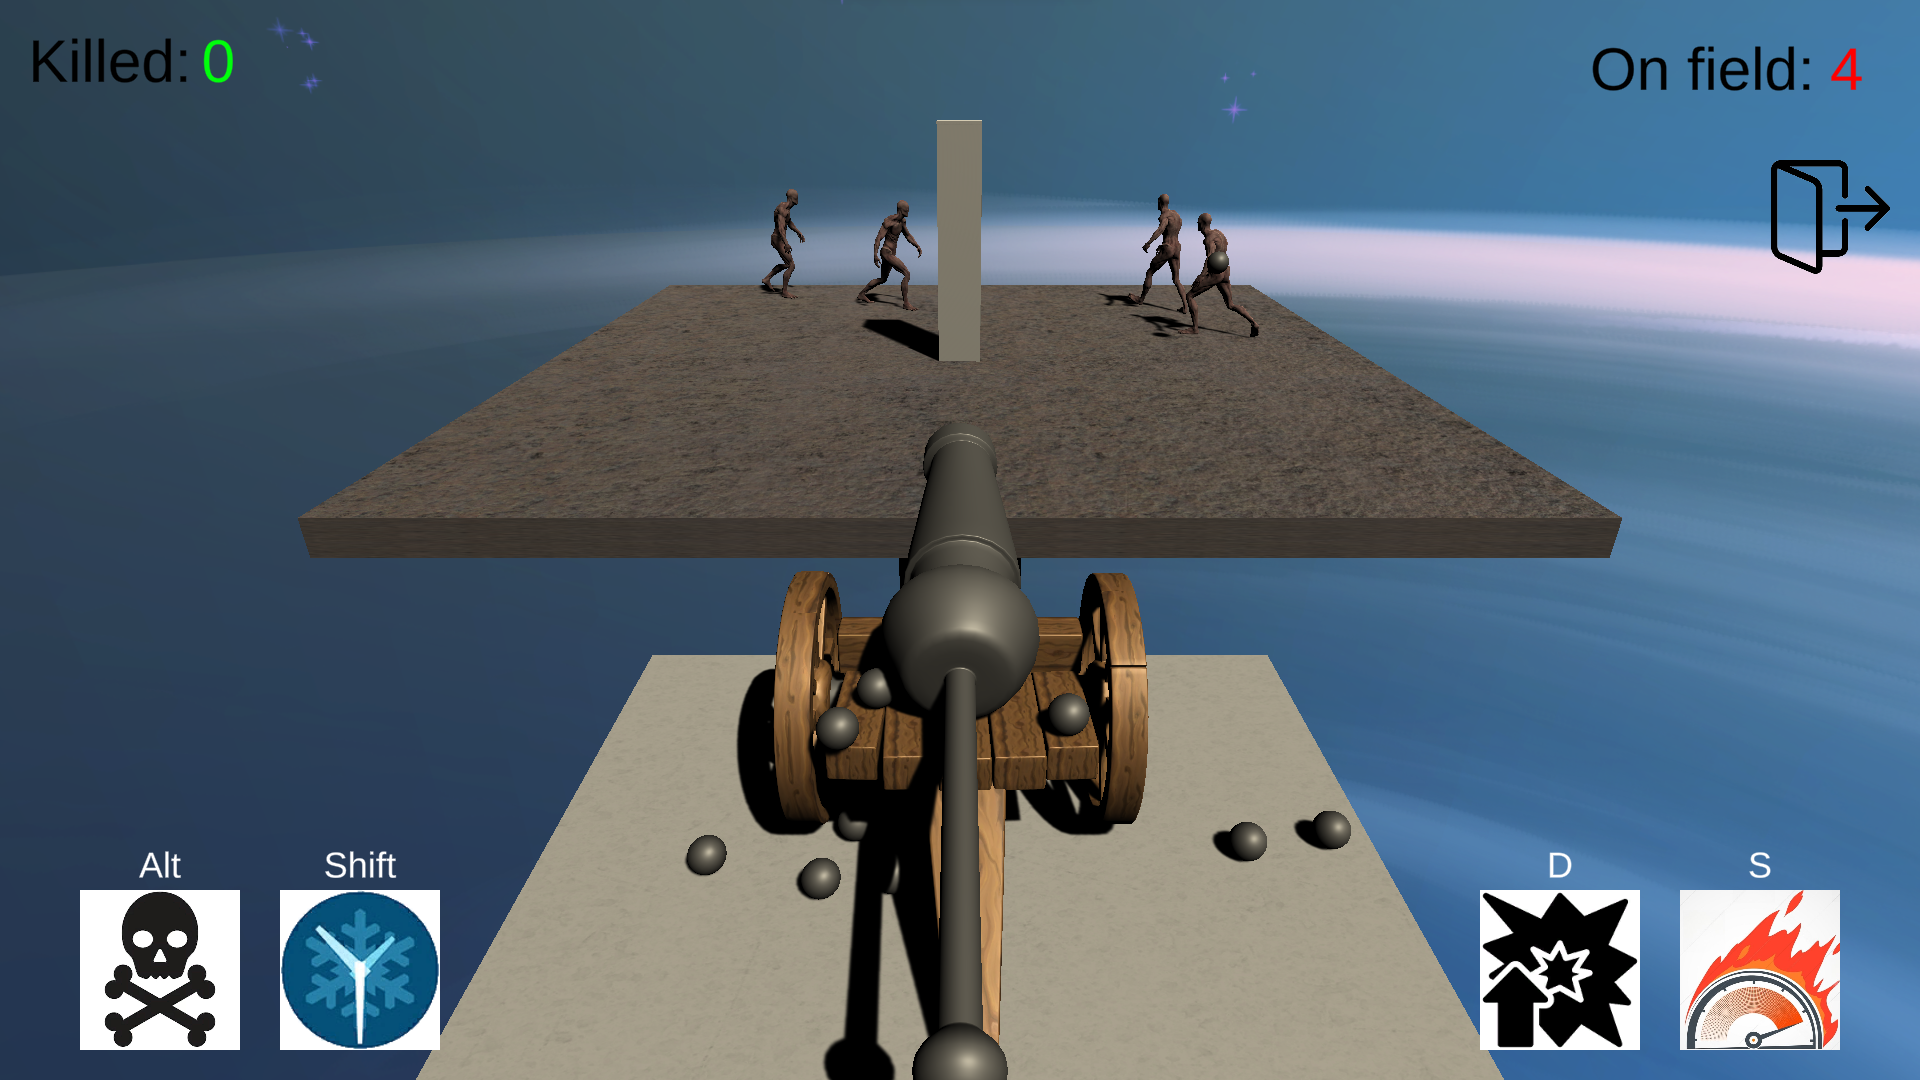
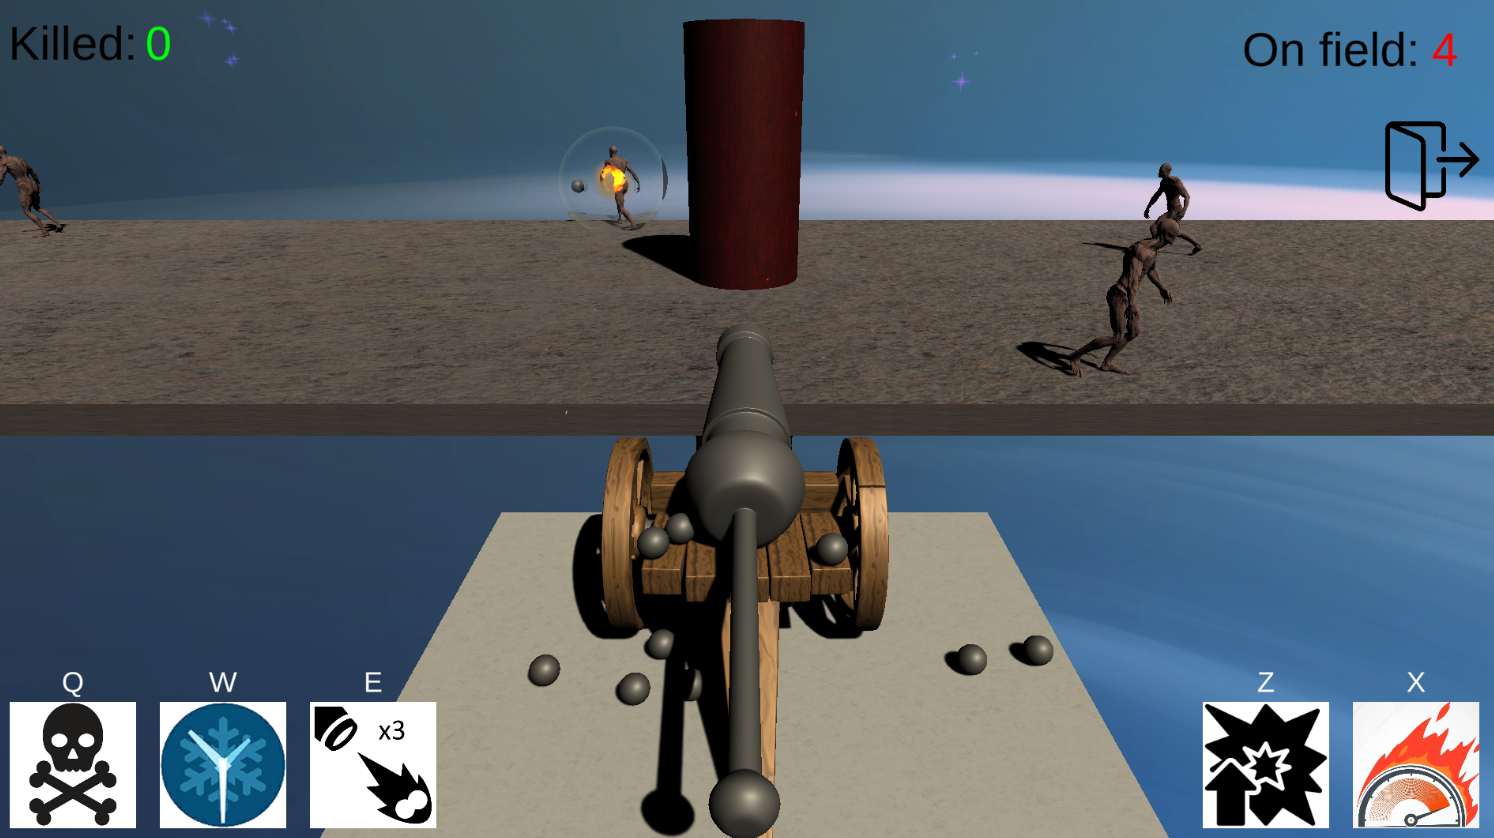
Update README.md

diff --git a/README.md b/README.md
@@ -2,16 +2,19 @@
 
 This is a single-player game where the main goal is to kill as many monsters as possible.
 
-The player has a cannon that deals damage to the monsters. Initially, the enemies have 100 HP, and one shot from the cannon deals 40 damage.
+The player has a cannon that deals damage to the monsters.
+Initially, the enemies have 100 HP, and one shot from the cannon deals 40 damage.
+The player has the ability to move along the X-axis.
 
 However, as the game progresses, the difficulty increases:
 - The enemies gain more HP.
 - Their movement speed increases.
 - The spawn time for new monsters decreases.
 
-The player has access to 2 skills and 2 upgrades:
+The player has access to 3 skills and 2 upgrades:
 - Skill #1: Kills all monsters on the field.
-- Skill #2: Freezes monster spawn for 10 seconds.
+- Skill #2: Freezes monster spawn for 3 seconds.
+- Skill #3: The next 3 shots fire double projectiles
 - Upgrade #1: Increases the cannon's damage.
 - Upgrade #2: Increases the cannon's rate of fire.
 
